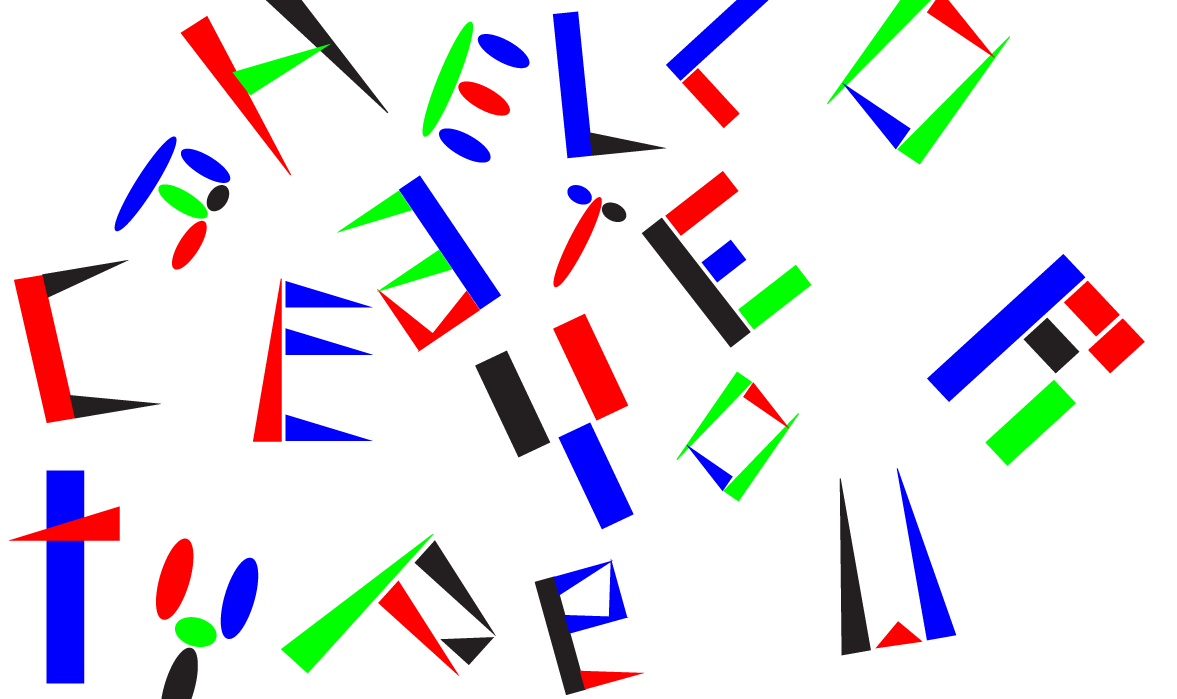
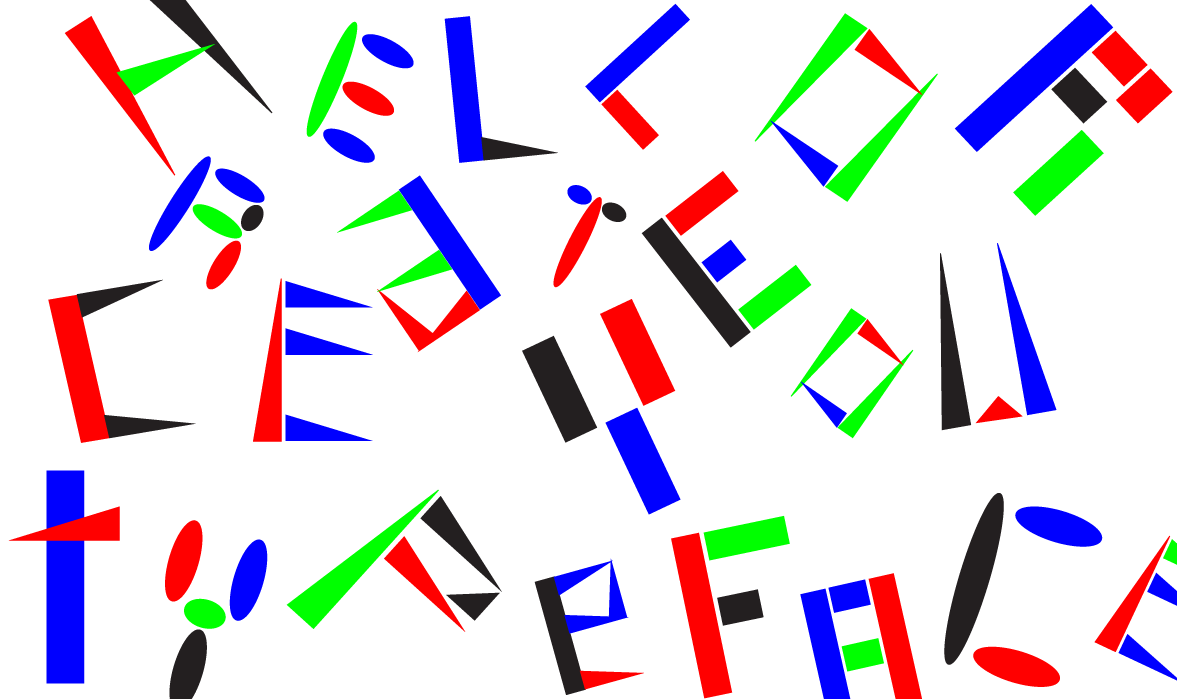
msg ...

diff --git a/typeface/style.css b/typeface/style.css
@@ -15,7 +15,7 @@ body {
 .image1 {
     position: absolute;
     top: 120px;
-    left: 60px;
+    left: 50px;
     width: 50px;
     height: 100px;
     background: url('s1.png');
@@ -30,21 +30,213 @@ body {
 }
 .image3 {
     position: absolute;
-    top: 230px;
-    left: 60px;
+    top: 120px;
+    left: 150px;
     width: 50px;
     height: 100px;
     background: url('s3.png');
 }
 .image4 {
     position: absolute;
-    top: 230px;
-    left: 100px;
+    top: 120px;
+    left: 200px;
     width: 50px;
     height: 100px;
     background: url('s4.png');
 }
+.image5 {
+    position: absolute;
+    top: 120px;
+    left: 250px;
+    width: 50px;
+    height: 100px;
+    background: url('s5.png');
+}
+.image6 {
+    position: absolute;
+    top: 120px;
+    left: 300px;
+    width: 50px;
+    height: 100px;
+    background: url('s6.png');
+}
+.image7 {
+    position: absolute;
+    top: 200px;
+    left: 300px;
+    width: 50px;
+    height: 100px;
+    background: url('s7.png');
+}
+.image8 {
+    position: absolute;
+    top: 200px;
+    left: 250px;
+    width: 50px;
+    height: 100px;
+    background: url('s8.png');
+}
+.image9 {
+    position: absolute;
+    top: 210px;
+    left: 200px;
+    width: 50px;
+    height: 50px;
+    background: url('s9.png');
+}
+.image10 {
+    position: absolute;
+    top: 210px;
+    left: 150px;
+    width: 50px;
+    height: 50px;
+    background: url('s10.png');
+}
+.image11 {
+    position: absolute;
+    top: 210px;
+    left: 100px;
+    width: 50px;
+    height: 50px;
+    background: url('s11.png');
+}
+.image12 {
+    position: absolute;
+    top: 210px;
+    left: 50px;
+    width: 50px;
+    height: 50px;
+    background: url('s12.png');
+}
+.image13 {
+    position: absolute;
+    top: 270px;
+    left: 50px;
+    width: 50px;
+    height: 100px;
+    background: url('c1.png');
+}
+.image14 {
+    position: absolute;
+    top: 270px;
+    left: 100px;
+    width: 50px;
+    height: 100px;
+    background: url('c2.png');
+}
+.image15 {
+    position: absolute;
+    top: 270px;
+    left: 150px;
+    width: 50px;
+    height: 50px;
+    background: url('c3.png');
+}
+.image16 {
+    position: absolute;
+    top: 270px;
+    left: 200px;
+    width: 50px;
+    height: 100px;
+    background: url('y1.png');
+}
+.image17 {
+    position: absolute;
+    top: 270px;
+    left: 250px;
+    width: 50px;
+    height: 100px;
+    background: url('y2.png');
+}
+.image19 {
+    position: absolute;
+    top: 270px;
+    left: 300px;
+    width: 50px;
+    height: 100px;
+    background: url('y3.png');
+}
 
+.image20 {
+    position: absolute;
+    top: 360px;
+    left: 50px;
+    width: 100px;
+    height: 50px;
+    background: url('s13.png');
+}
+.image21 {
+    position: absolute;
+    top: 360px;
+    left: 140px;
+    width: 100px;
+    height: 50px;
+    background: url('s14.png');
+}
+.image22 {
+    position: absolute;
+    top: 360px;
+    left: 230px;
+    width: 100px;
+    height: 50px;
+    background: url('s15.png');
+}
+.image23 {
+    position: absolute;
+    top: 410px;
+    left: 230px;
+    width: 100px;
+    height: 50px;
+    background: url('s16.png');
+}
+.image24 {
+    position: absolute;
+    top: 410px;
+    left: 140px;
+    width: 100px;
+    height: 50px;
+    background: url('c4.png');
+}
+.image25 {
+    position: absolute;
+    top: 410px;
+    left: 50px;
+    width: 100px;
+    height: 50px;
+    background: url('c5.png');
+}
+.image26 {
+    position: absolute;
+    top: 460px;
+    left: 50px;
+    width: 100px;
+    height: 50px;
+    background: url('c6.png');
+}
+.image27 {
+    position: absolute;
+    top: 460px;
+    left: 150px;
+    width: 50px;
+    height: 50px;
+    background: url('y4.png');
+}
+.image28 {
+    position: absolute;
+    top: 460px;
+    left: 250px;
+    width: 100px;
+    height: 50px;
+    background: url('y5.png');
+}
+.image29 {
+    position: absolute;
+    top: 500px;
+    left: 250px;
+    width: 100px;
+    height: 50px;
+    background: url('y6.png');
+}
 .shape {
     margin:auto;
     display: inline-block;
@@ -62,11 +254,11 @@ body {
     border: 2px outset buttonface;
     background-color: buttonface;
     box-sizing: border-box;
-    height: 5%;
+    height: 4%;
     display:inline-block;
     position: absolute;
-    top: 0;
-    left: 0;
+    top: 90px;
+    left: 1000px;
 }
 
 .boxwrapper {
@@ -91,15 +283,32 @@ body {
   display: inline-block;
   vertical-align: top;
   /*top: 50px;*/
-  width: 150px;
-  height: 500px;
+  width: 300px;
+  height: 550px;
 }
 
 .canvas {
     width: 800px;
-    height: 500px;
+    height: 550px;
     /*position: absolute;*/
     /*left: 150px;*/
     z-index: 0;
     background-image: url("canvasbg.jpg");
+}
+.inspire{
+    align-items: flex-start;
+    font-family: sans-serif;
+    text-align: inline-block;
+    cursor: default;
+    color: buttontext;
+    padding: 2px 6px 3px;
+    border: 2px outset buttonface;
+    background-color: buttonface;
+    box-sizing: border-box;
+    height: 4%;
+    display:inline-block;
+    position: absolute;
+    top:90px;
+    left:900px;
+    
 }

diff --git a/typeface/home.html b/typeface/home.html
@@ -8,7 +8,9 @@
   </head>
   <body style="cursor: auto;">
     
-    <div class="clear">clean</div>
+    <div class="clear">CLEAN</div>
+    <div class="inspire">INSPIRE</div>
+    
     
     <div class="shape">
       <div class="boxwrapper">
@@ -17,11 +19,37 @@
           <div class="image2 draggable ui-draggable ui-draggable-handle"> </div>
           <div class="image3 draggable ui-draggable ui-draggable-handle"> </div>
           <div class="image4 draggable ui-draggable ui-draggable-handle"> </div>
+          <div class="image5 draggable ui-draggable ui-draggable-handle"> </div>
+          <div class="image6 draggable ui-draggable ui-draggable-handle"> </div>
+          <div class="image7 draggable ui-draggable ui-draggable-handle"> </div>
+          <div class="image8 draggable ui-draggable ui-draggable-handle"> </div>
+          <div class="image9 draggable ui-draggable ui-draggable-handle"> </div>
+          <div class="image10 draggable ui-draggable ui-draggable-handle"> </div>
+          <div class="image11 draggable ui-draggable ui-draggable-handle"> </div>
+          <div class="image12 draggable ui-draggable ui-draggable-handle"> </div>
+          <div class="image13 draggable ui-draggable ui-draggable-handle"> </div>
+          <div class="image14 draggable ui-draggable ui-draggable-handle"> </div>
+          <div class="image15 draggable ui-draggable ui-draggable-handle"> </div>
+          <div class="image16 draggable ui-draggable ui-draggable-handle"> </div>
+          <div class="image17 draggable ui-draggable ui-draggable-handle"> </div>
+          <div class="image18 draggable ui-draggable ui-draggable-handle"> </div>
+          <div class="image19 draggable ui-draggable ui-draggable-handle"> </div>
+          <div class="image20 draggable ui-draggable ui-draggable-handle"> </div>
+          <div class="image21 draggable ui-draggable ui-draggable-handle"> </div>
+          <div class="image22 draggable ui-draggable ui-draggable-handle"> </div>
+          <div class="image23 draggable ui-draggable ui-draggable-handle"> </div>
+          <div class="image24 draggable ui-draggable ui-draggable-handle"> </div>
+          <div class="image25 draggable ui-draggable ui-draggable-handle"> </div>
+          <div class="image26 draggable ui-draggable ui-draggable-handle"> </div>
+          <div class="image27 draggable ui-draggable ui-draggable-handle"> </div>
+          <div class="image28 draggable ui-draggable ui-draggable-handle"> </div>
+          <div class="image29 draggable ui-draggable ui-draggable-handle"> </div>
         </div>
       </div>
 
       <div class="canvaswrapper">
         <canvas class="canvas"></canvas>
+        
       </div>
     </div>
     

diff --git a/typeface/script.js b/typeface/script.js
@@ -9,7 +9,12 @@ $(function() {
     });
     $(".clear").click(function() {
         $(".dragged").remove();
+        $(".canvas").css("background-image", "url(canvasbg.jpg");
     });
 });
 
-
+$(".inspire").click(function() {
+  var randomNum = Math.floor(Math.random() * 4);
+  console.log(randomNum);
+  $(".canvas").css("background-image", "url(bg" + randomNum + ".png");
+});
